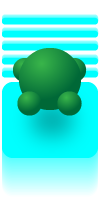
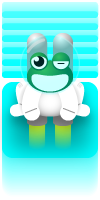
Updated graphics and points scoring

diff --git a/js/app.js b/js/app.js
@@ -33,8 +33,8 @@ const token = {
   winner: 'img/player-win.png',
     lost: 'img/player-lost.png'
 }
-const offset = 1.1;
-let accelerator = 1.25;
+const offset = 0.75;
+let accelerator = 1.15;
 
 let velocity,
     player,
@@ -44,7 +44,8 @@ let velocity,
     greenLaser,
     allEnemies = [],
     lives = 6,
-    score = 0;
+    score = 0,
+    ratingPoints = 50;
 
 
 
@@ -172,7 +173,7 @@ class Player {
   reset(type, x = (game.tileWidth * 2), y = (game.tileHeight * 6)) {
     this.move = false;
     if (type === 'winner') {
-      this.score(100);
+      this.score(ratingPoints);
     }
     setTimeout( () => {
       this.sprite = token[type];
@@ -197,8 +198,8 @@ class Player {
     velocity *= accelerator;
 
     // initiate level hard
-    if (velocity > 700) {
-      maxLevel();
+    if (score > 250) {
+      levelUp();
     }
   }
   lose() {
@@ -228,10 +229,16 @@ let initiate = () => {
   livesAmount();
 };
 
-let maxLevel = () => {
-  accelerator = 1.05;
-  greenLaser = new Laser(-150, 400, '<', laser.green);
-  allEnemies.push(greenLaser);
+let levelUp = (color) => {
+  accelerator = 1.01;
+  ratingPoints *= 2;
+  const random = ['green', 'yellow', 'blue', 'purple'];
+
+
+  color = laser[random[Math.floor((Math.random() * random.length))]];
+  newLaser = new Laser(-150, 400, '>', color);
+
+  allEnemies.push(newLaser);
 }
 
 let livesAmount = () => {
@@ -314,14 +321,6 @@ gamePad = () => {
          down: 'down'
     };
     player.handleInput(allowedClicks[arrow]);
-  };
-
-  let currentTime = Date.now();
-  game.pad.ontouchstart = (e) => { //touchstart
-    if (e.timeStamp - currentTime < 300) {
-      e.preventDefault();
-      console.log('prevent działa')
-    }
   };
 }
 
